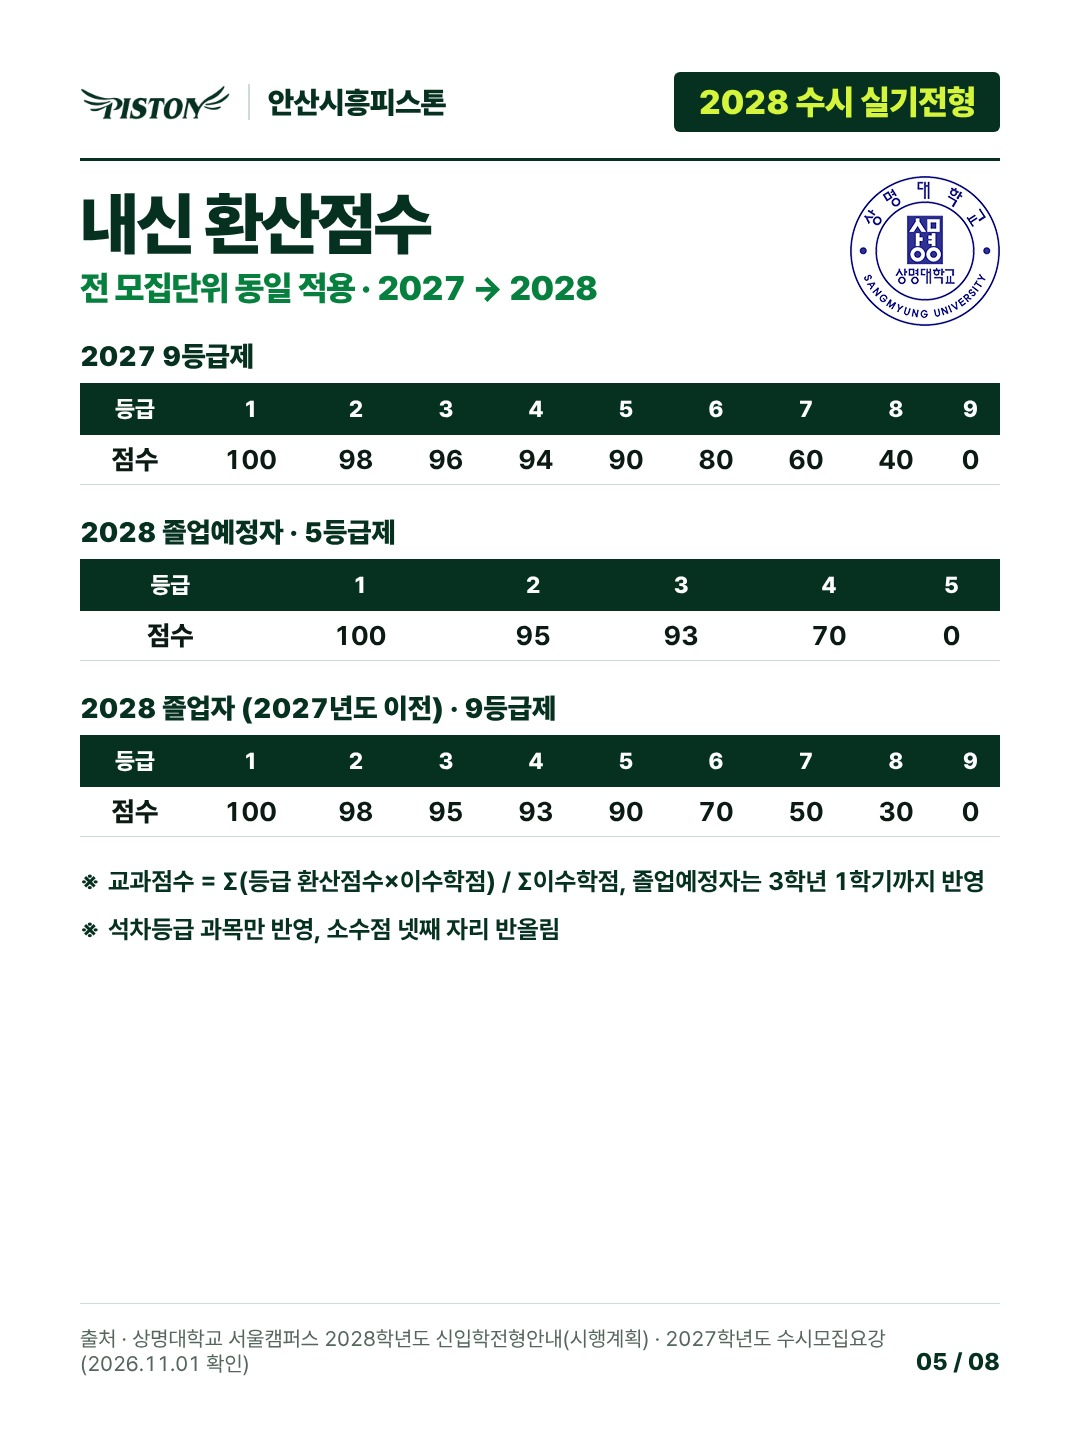
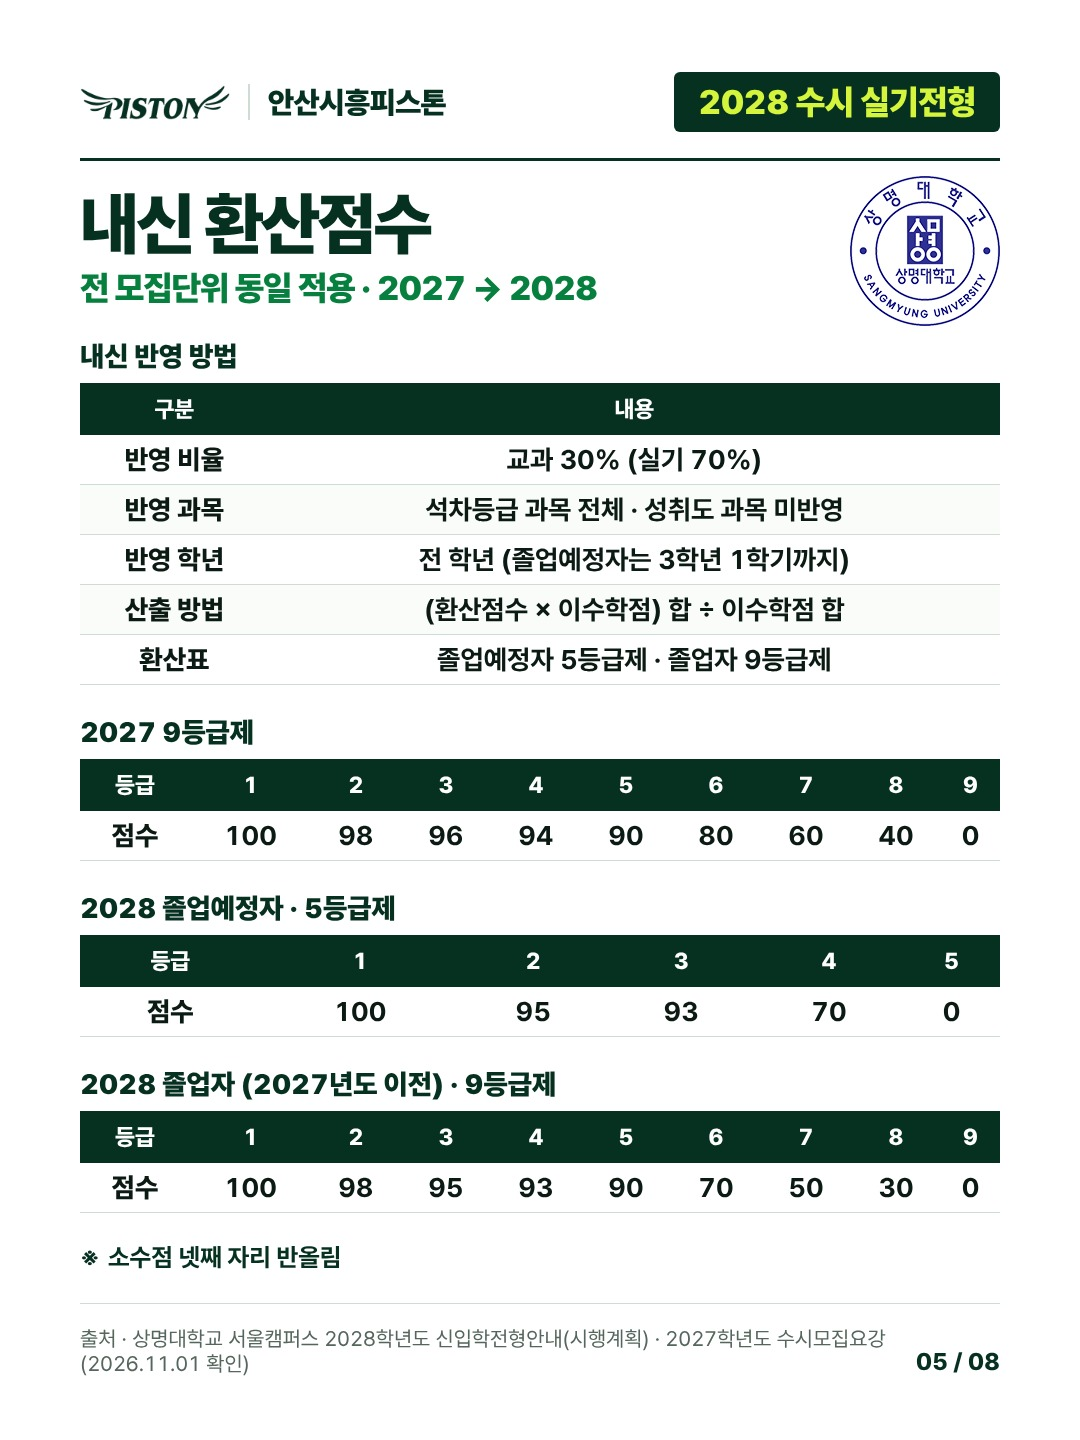
상명 수시: 내신 환산점수 슬라이드에 반영 방법 추가
Claude-Session: https://claude.ai/code/session_01EGTn7G8nWP1yv5M2jqmoFb

Changed region(s): [[0.0611, 0.2188, 0.9472, 0.9062], [0.8861, 0.3125, 0.9167, 0.3438], [0.825, 0.3125, 0.8556, 0.3438]]

diff --git a/social/out/smu-susi-susi/blog.md b/social/out/smu-susi-susi/blog.md
@@ -53,6 +53,16 @@
 [이미지: post-4.jpg]
 
 ## 내신 환산점수 (전 모집단위 동일 적용 · 2027 → 2028)
+**내신 반영 방법**
+
+| 구분 | 내용 |
+| --- | --- |
+| 반영 비율 | 교과 30% (실기 70%) |
+| 반영 과목 | 석차등급 과목 전체 · 성취도 과목 미반영 |
+| 반영 학년 | 전 학년 (졸업예정자는 3학년 1학기까지) |
+| 산출 방법 | (환산점수 × 이수학점) 합 ÷ 이수학점 합 |
+| 환산표 | 졸업예정자 5등급제 · 졸업자 9등급제 |
+
 **2027 9등급제**
 
 | 등급 | 1 | 2 | 3 | 4 | 5 | 6 | 7 | 8 | 9 |
@@ -71,8 +81,7 @@
 | --- | --- | --- | --- | --- | --- | --- | --- | --- | --- |
 | 점수 | 100 | 98 | 95 | 93 | 90 | 70 | 50 | 30 | 0 |
 
-※ 교과점수 = Σ(등급 환산점수×이수학점) / Σ이수학점, 졸업예정자는 3학년 1학기까지 반영
-※ 석차등급 과목만 반영, 소수점 넷째 자리 반올림
+※ 소수점 넷째 자리 반올림
 
 [이미지: post-5.jpg]
 
